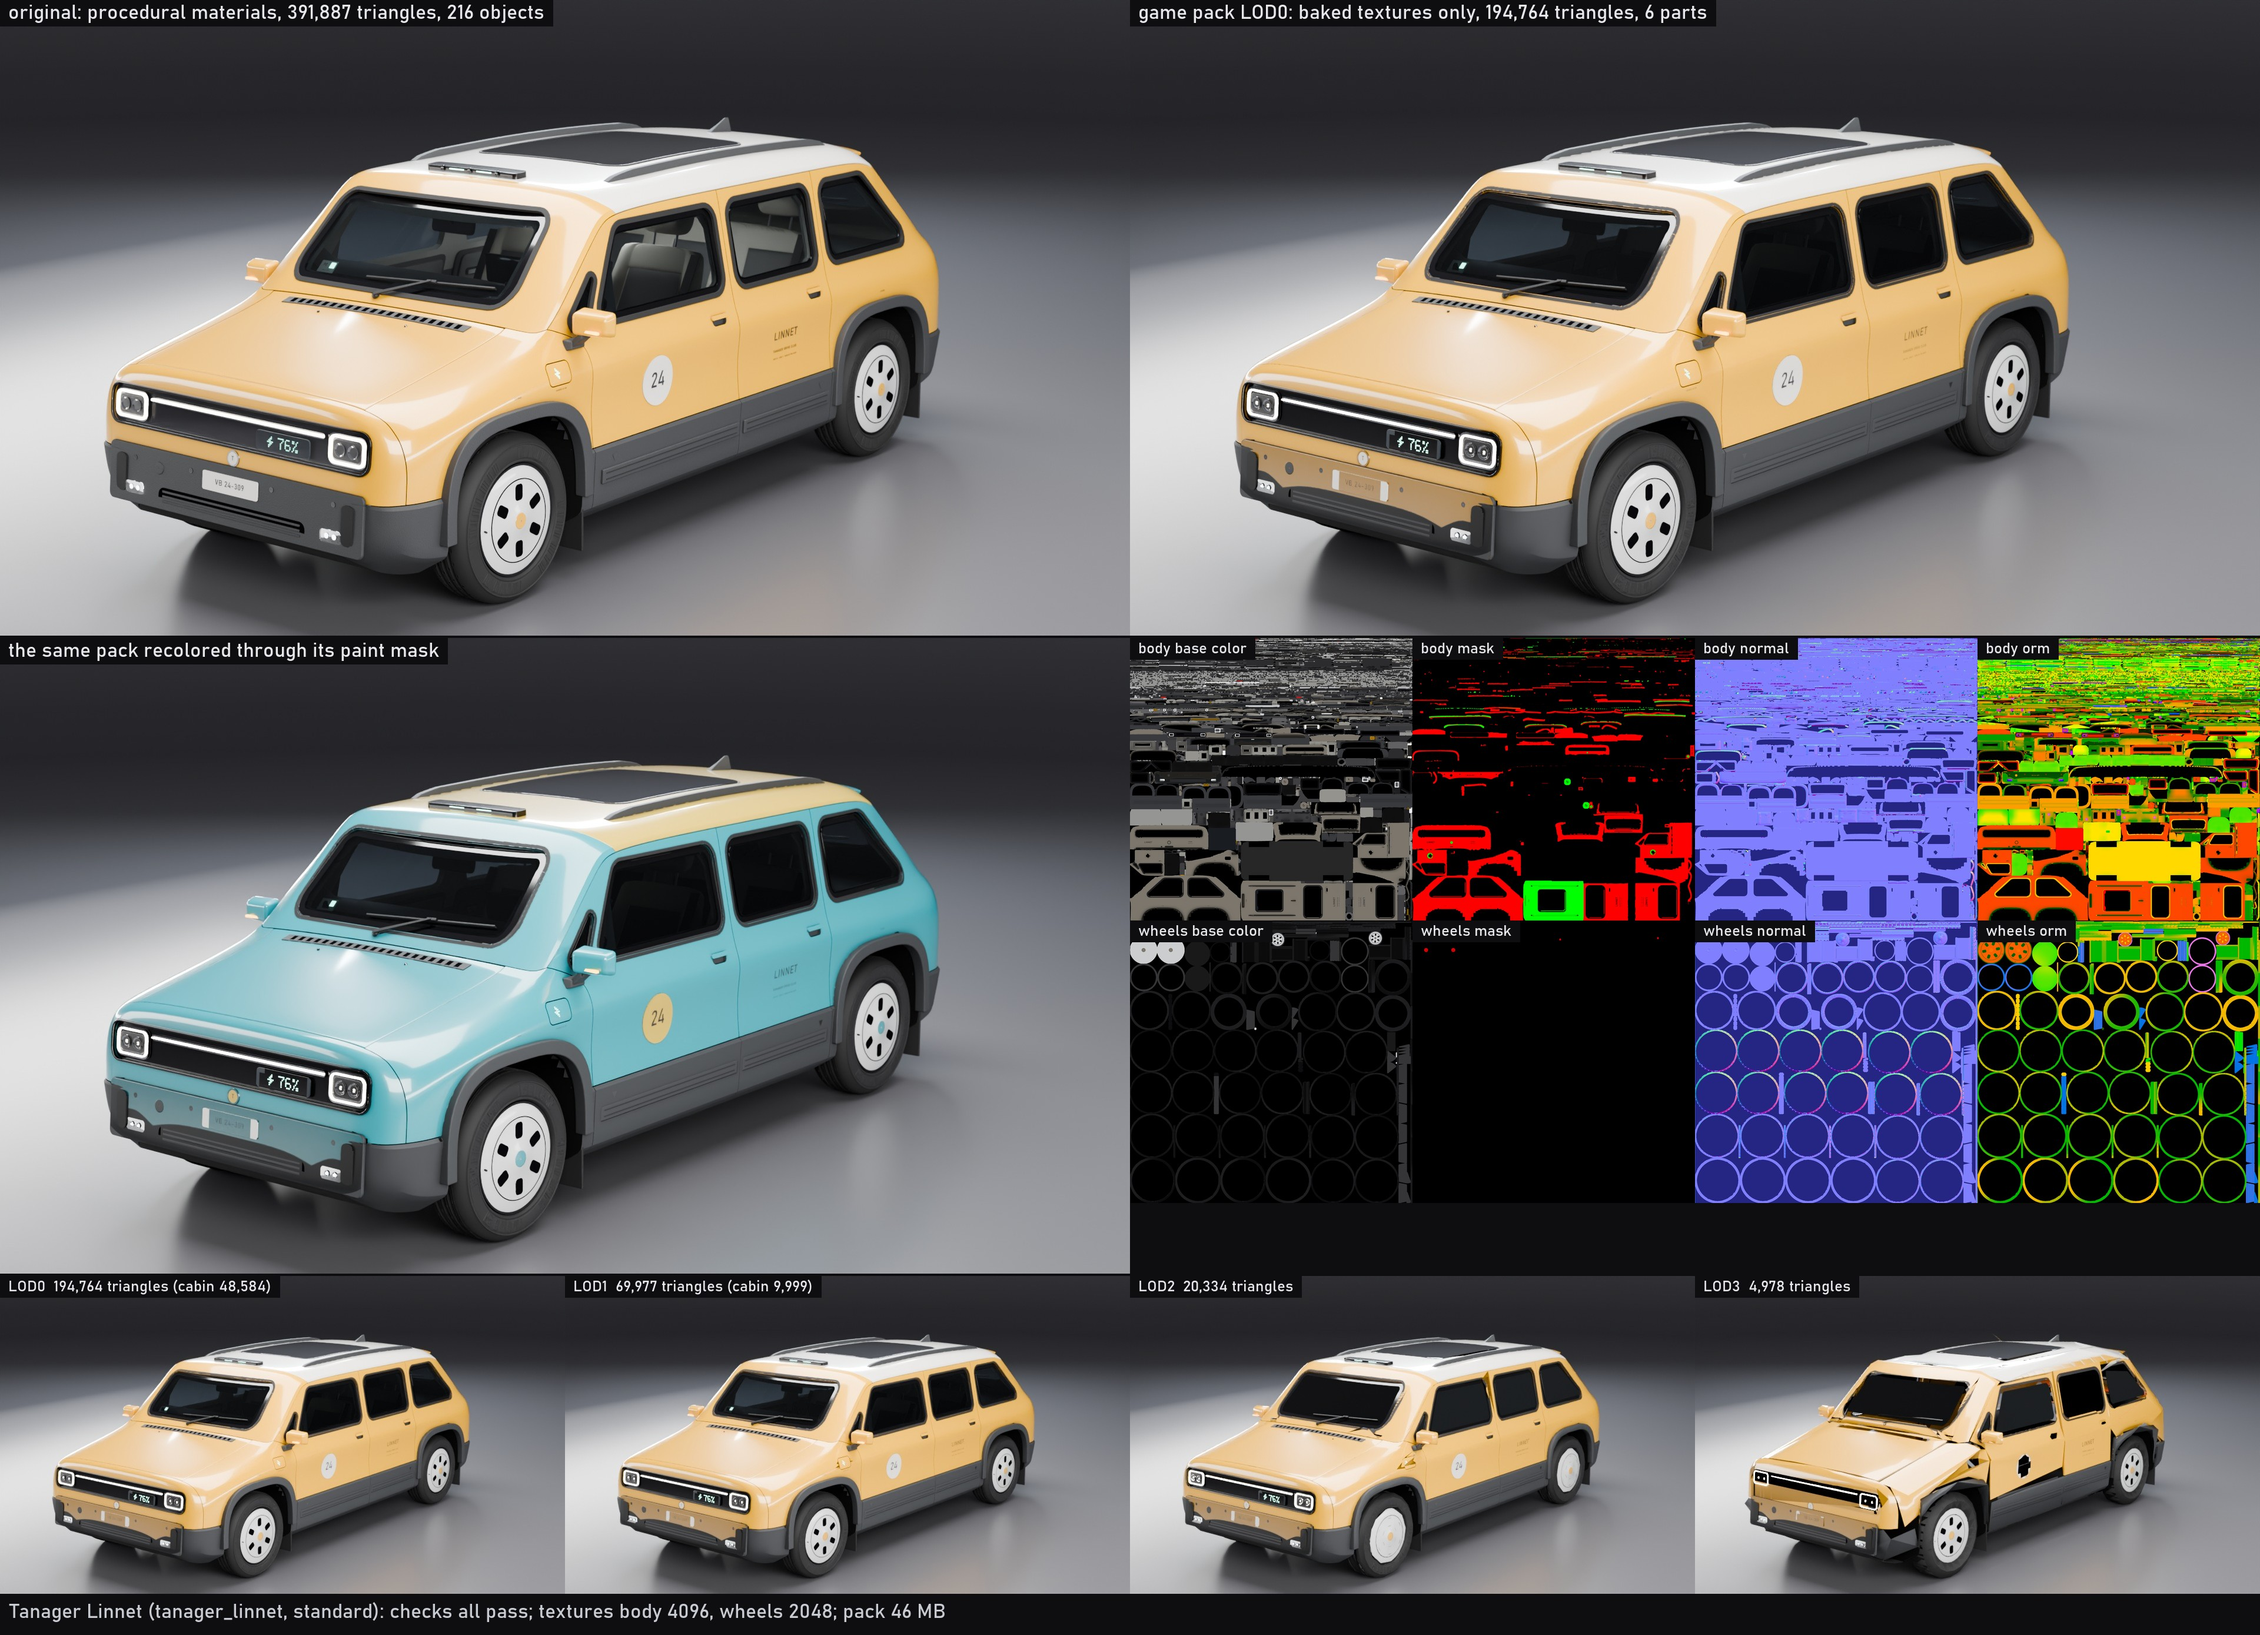
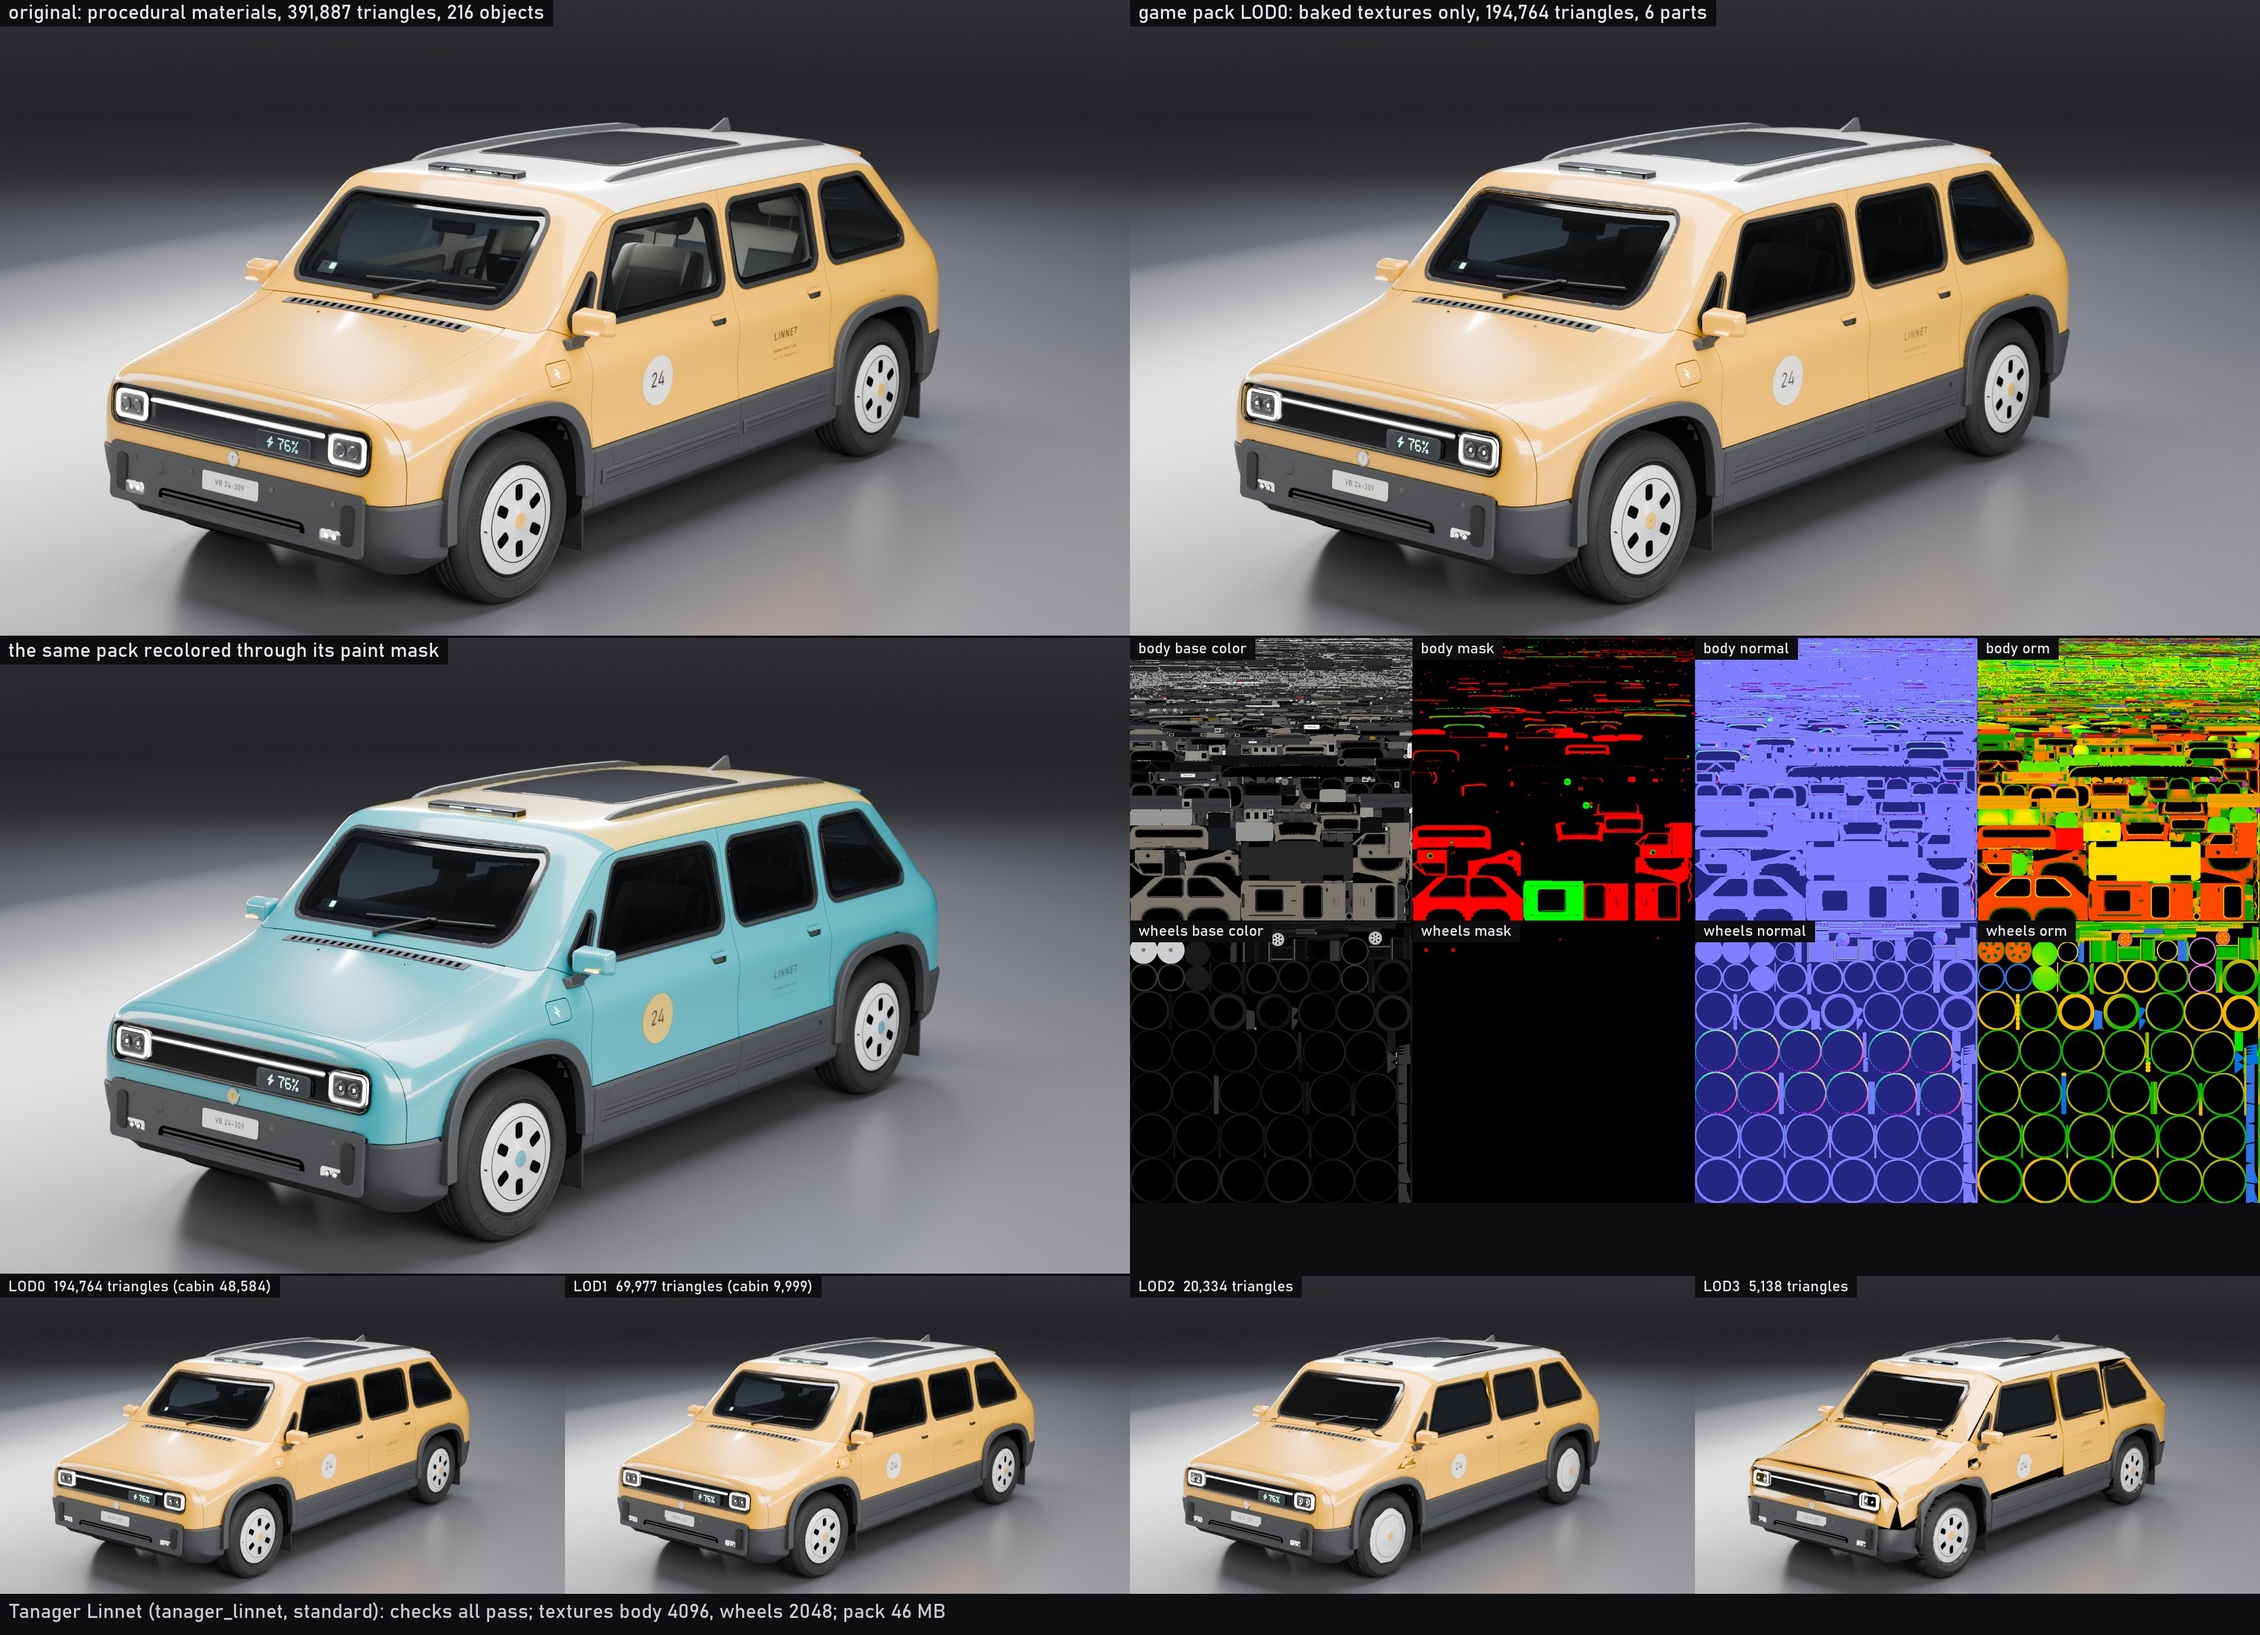
AG18: LOD3's body from LOD2's, kept pieces under baked detail as bake sources
Collapsed from LOD0 straight to a few percent, a far LOD's panels crumpled and
tore at the nose and wheel arches (worst the Lumen); LOD3's body is now made
from LOD2's, its UVs, normals and fidelity still taken from LOD0. A kept piece
under baked-down detail is a source of the detail bake too, so its rays no
longer pass through it to the surface behind (the Linnet's bumper took the
nose's paint). The Linnet's pack rebuilt with both.

diff --git a/vehicles/game.py b/vehicles/game.py
@@ -2457,6 +2457,7 @@ LOD_WELD_FROM = 3                           # pieces welded where their vertices
 LOD_WELD_M = 0.0015
 LOD_LATHE_SEGS = 20
 LOD_WRECK_FROM = 3                          # wrecked pieces put right (stand_ins)
+LOD_FROM_PREV = 3                           # a far LOD's body from the LOD before it
 LOD_OVER_TOL = 1.1                          # a far LOD over its budget by more (the check's
 LOD_SQUEEZE = 2                             # tolerance) made again at a lower target, this often
 LOD_WRECK_M = 0.01                          # ... off their shape by more than this
@@ -3646,7 +3647,8 @@ def opaque_unseen(parts_final):
 
 
 def make_lods(parts_final, budgets, coll, work=None, cabin=None):
-    """LOD1 to LOD3 from LOD0's parts: each lod_prep'ed, then collapsed (body and glass
+    """LOD1 to LOD3 from LOD0's parts (from LOD_FROM_PREV the body from the LOD before it,
+    LOD3's from LOD2's): each lod_prep'ed, then collapsed (body and glass
     symmetric in y) at one ratio for every part to the budget (at most 60% of the LOD
     before it), UVs and normals laid on from LOD0 (Surface), the box held (hold_bounds);
     each measured against LOD0 (fidelity). cabin: a cabin.py cabin's allowance per LOD
@@ -3691,10 +3693,20 @@ def make_lods(parts_final, budgets, coll, work=None, cabin=None):
             log("LOD%d: faces not seen with the glass opaque %s (%.1f s)" % (
                 k, {nm: len(v) for nm, v in unseen.items()}, time.time() - t1))
         hid = unseen or {}
+        src = dict(parts_final)
+        if k >= LOD_FROM_PREV and lods[-1]["lod"] == k - 1 and "body" in src:
+            # the far LOD's body from the LOD before it (a clean mesh a few times its size),
+            # not from LOD0 (a collapse to a few percent crumples its panels); its faces not
+            # seen with the glass opaque found again on it
+            names = [nm for nm, _ in parts_final]
+            src["body"] = lods[-1]["objs"][names.index("body")]
+            if k >= LOD_OPAQUE_FROM:
+                hid = dict(hid)
+                hid["body"] = opaque_unseen([(nm, src[nm]) for nm in names])["body"]
         SMALL_SCALE[0] = 1.0
         squeeze = 0
         while True:
-            prep = {nm: lod_prep(o, k, nm in coarse, nm.startswith("wheel_"),
+            prep = {nm: lod_prep(src[nm], k, nm in coarse, nm.startswith("wheel_"),
                                  unseen=hid.get(nm))
                     for nm, o in parts_final}
             for nm in coarse:       # too much to keep whole: unsubdivided, else collapsed
@@ -4378,7 +4390,22 @@ def main_build(A):
         if target is None:
             continue
         rec = receiver_of(target, replaced[slot], sources[slot], relief[slot], low_coll)
-        srcs = sources[slot]
+        srcs = list(sources[slot])
+        if rec is not None and "cg_piece" in rec.data.attributes:
+            # a kept piece under baked-down detail is a source too: the rays from its faces
+            # start on it, and without it they passed through it to the next surface behind
+            # (the Linnet's bumper, a plastic plate under its plate and sensors, took the
+            # paint of the nose 12 mm behind it)
+            under = {x.value for x in rec.data.attributes["cg_piece"].data}
+            for p in pieces:
+                if p.idx in under and p.op in ("keep", "planar") and p.part != "glass" and \
+                        ("body" if p.part == "body" else "wheels") == slot and \
+                        p.ob not in srcs:
+                    srcs.append(p.ob)
+                    for m in p.ob.data.materials:
+                        if m is not None and m.name not in src_chans:
+                            src_chans[m.name] = Channels(infos.get(m.name) or MatInfo(m),
+                                                         infos, emax, True, False)
         sc = [src_chans[m.name] for o in srcs for m in o.data.materials if m is not None]
         sc = list({id(c): c for c in sc}.values())
         log("baking %s: %d faces, %d of them under baked-down detail, %d source objects" % (

diff --git a/vehicles/GAME.md b/vehicles/GAME.md
@@ -269,7 +269,9 @@ LOD0 the parts as above. LOD1 to LOD3 are made from LOD0 to their budgets (60,00
 budget still steps down), and share LOD0's textures. A `cabin.py` cabin is in LOD1 too,
 collapsed apart from the exterior at a ratio of its own to its allowance (10,000 triangles,
 at most 60% of LOD0's cabin), the exterior to its budget as any car's; from LOD2 it is left
-out. Per part, in this order:
+out. LOD3's body is made from LOD2's (its UVs and normals still laid on from LOD0's
+surface, its fidelity measured against LOD0): collapsed from LOD0 straight to a few percent,
+its panels crumpled and tore at the nose and wheel arches. Per part, in this order:
 
 1. **Left out.** From LOD2 the cabin's faces; from LOD2 every piece no larger than 5 cm
    in any direction (bolts, sensors, small vents; lamps never); at LOD3 the faces seen only
